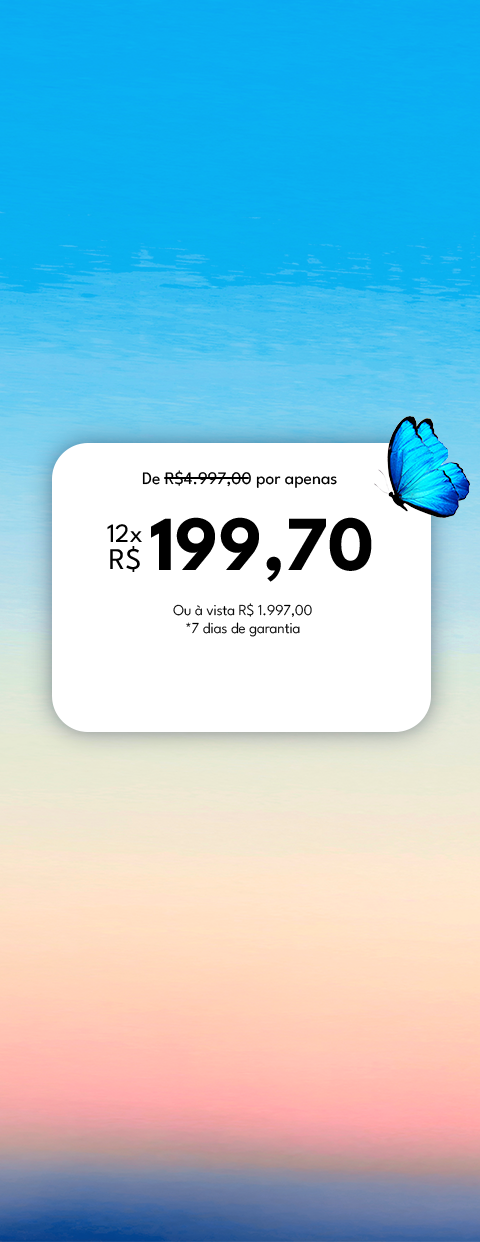
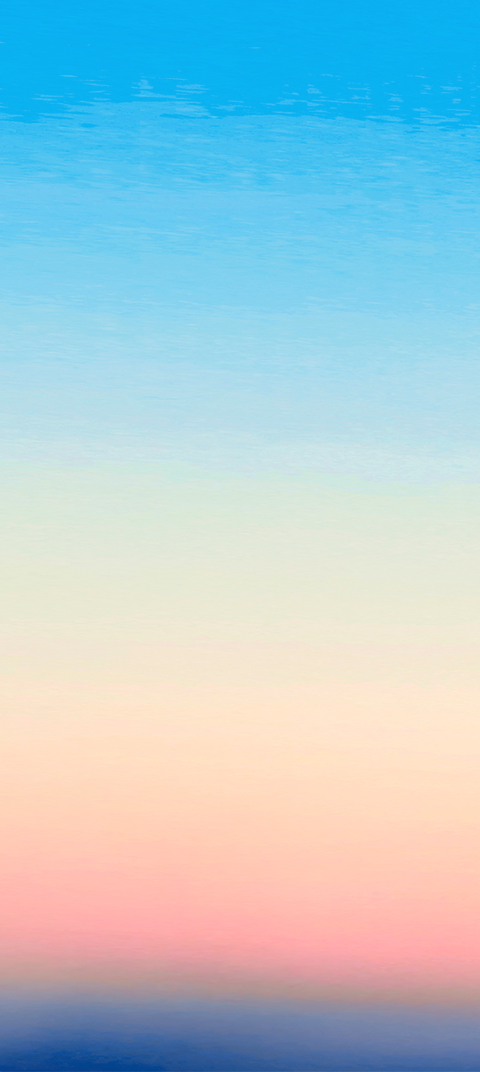
box-bonus removido

diff --git a/src/components/invista/index.js b/src/components/invista/index.js
@@ -6,6 +6,8 @@ import mais from '../../assets/file/mais.png'
 import botao from '../../assets/cta/botao-reservar.png'
 import garantia from '../../assets/cta/garantia.png'
 import valor from '../../assets/file/tabelaValor.png'
+import valorMobile from '../../assets/file/valorTabela.png'
+
 // import {ModalContext} from '../../context/index';
 
 export default function Page(props) {
@@ -58,30 +60,23 @@ export default function Page(props) {
                                     <div className="flex Tratamento py-2">
                                         <img src={mais} className="self-center pr-3 h-7" width="30" />
                                         Suporte pelo WhatsApp
-                                    </div> 
-                                    <div className="flex Tratamento py-2 pb-20">
+                                    </div>
+                                    <div className="flex Tratamento py-2 mb-10">
                                         <img src={mais} className="self-center pr-3 h-7" width="30" />
                                         Encontros mensais online<br /> com a Dra. Amanda Almeida.
                                     </div>
                                 </div>
                             </div>
-                            <div className="flex relative box-valor mb-10 ">
+                            
+                            <div className="flex relative box-valor">
+                            <img src={valorMobile} className="flex absolute pt-4" />
                                 <div className="flex absolute botao-invista justify-center">
                                     <img src={botao} className="flex invistaButton" />
                                     <button type="submit" className="absolute buttonInvista" onClick={() => { window.location.href = "https://sun.eduzz.com/1436910?cupom=sejalivre"; }}>Quero ser livre</button>
                                 </div>
                             </div>
 
-                                <div className="flex flex-col box-bonus text-center items-center place-self-center">
-                                    <div className="flex titulo-bonus pt-5">
-                                        Bônus
-                                    </div>
-                                    <div className="flex descricao-bonus pt-2">
-                                        Avaliação individual via vídeo<br /> chamada, com Dra. Amanda<br /> para as 5 primeiras inscritas.
-                                    </div>
-                            </div>
-
-                            <div className="relative flex justify-center pt-14 text-center pb-10">
+                            <div className="relative flex justify-center text-center pb-14 pt-20">
                                 <img src={garantia} className="flex button-garantia" />
                                 <div className="absolute titulo-garantia">Garantia de 7 Dias</div>
                                 <div className="absolute descricao-garantia"><br />
@@ -102,8 +97,8 @@ export default function Page(props) {
                             invista na sua liberdade!
                         </div>
                         <div className="flex flex-wrap justify-center">
-                            <div className="flex flex-col w-6/10 pt-12 pl-10">
-                                <div className="flex w-full justify-center invista py-2">
+                            <div className="flex flex-col pt-12 pl-20">
+                                <div className="flex w-full justify-start invista py-2">
                                     Tratamento de Vaginismo
                                 </div>
                                 <div className="flex flex-row w-full justify-center Tratamento py-2">
@@ -126,13 +121,25 @@ export default function Page(props) {
                                     <div className='flex flex-row justify-end'>
                                         <img src={mais} className="self-center pr-3 h-8" width="auto" />
                                     </div>
-                                    <div className='flex flex-row w-full justify-start'>
+                                    <div className='flex flex-row w-full justify-start pb-4'>
                                         Encontros mensais online<br /> com a Dra. Amanda Almeida.
                                     </div>
                                 </div>
+                                <div className="flex flex-wrap justify-center">
+                                    <div className="text-center">
+                                        <div className="relative flex justify-center pt-20">
+                                            <img src={garantia} className="flex button-garantia" />
+                                            <div className="absolute titulo-garantia">Garantia de 7 Dias</div>
+                                            <div className="absolute descricao-garantia"><br />
+                                                Sua compra está segura.<br />
+                                                Ou você fica satisfeita, ou recebe <br />
+                                                100% do seu investimento de volta.
+                                            </div>
+                                        </div>
+                                    </div>
+                                </div>
                             </div>
-
-                            <div className="flex relative box-valor ml-28 mb-20">
+                            <div className="flex relative box-valor ml-28 pt-6">
                                 <img src={valor} className="flex absolute pt-4 pr-2" />
                                 <div className="flex absolute botao-invista  justify-center">
                                     <img src={botao} className="flex invistaButton" />
@@ -141,29 +148,6 @@ export default function Page(props) {
                             </div>
                         </div>
 
-                        <div className="flex flex-wrap justify-center">
-                            <div className="text-center pr-20">
-                                <div className="relative flex justify-center pt-14">
-                                    <img src={garantia} className="flex button-garantia" />
-                                    <div className="absolute titulo-garantia">Garantia de 7 Dias</div>
-                                    <div className="absolute descricao-garantia"><br />
-                                        Sua compra está segura.<br />
-                                        Ou você fica satisfeita, ou recebe <br />
-                                        100% do seu investimento de volta.
-                                    </div>
-                                </div>
-                            </div>
-                            <div className="text-center pr-3">
-                                <div className="box-bonus">
-                                    <div className="titulo-bonus pt-5">
-                                        Bônus
-                                    </div>
-                                    <div className="descricao-bonus pt-2">
-                                        Avaliação individual via vídeo<br /> chamada, com Dra. Amanda para as 5<br /> primeiras inscritas.
-                                    </div>
-                                </div>
-                            </div>
-                        </div>
                     </Fade>
                 </div>
             </ScrollableAnchor>

diff --git a/src/styles/index.css b/src/styles/index.css
@@ -345,9 +345,8 @@ a {
   height: 280px;
 }
 .botao-invista {
-  align-self: flex-end;
   padding-left: 80px;
-  margin-top: 20px;
+  margin-top: 360px;
 }
 
 .invistaButton {
@@ -376,28 +375,6 @@ a {
   font-size: 1rem;
   color: white;
   line-height: 1.2rem;
-}
-.box-bonus {
-  border-radius: 1rem;
-  border-width: 2px;
-  border-color: rgb(244 114 182);
-  border-style: solid;
-  width: 360px;
-  height: 155px;
-  box-shadow: 0 20px 25px -5px rgb(0 0 0 / 0.1), 0 8px 10px -6px rgb(0 0 0 / 0.1);
-  margin-top: -2px;
-}
-.titulo-bonus {    
-  color: #ad5677;
-  font-family: agright--regular;
-  text-transform: uppercase;
-  font-size: 2.25rem;
-}
-.descricao-bonus{
-  color: #ad5677;  
-  font-size: 1rem;
-  line-height: 1.2rem;
-  font-family: LeagueSpartan-SemiBold;
 }
 .titulo-dep {
   font-family: agright--regular;
@@ -662,9 +639,6 @@ a {
   .descricao-garantia {
     margin-top: 20px;
   }
-  .box-bonus {
-    margin-top: 20px;
-  }
   
   @media screen and (min-device-width: 1399px) and (max-device-width: 620px) {
     .tituloTopo {
@@ -694,9 +668,6 @@ a {
     .descricao-garantia {
       margin-top: 20px;
     }
-    .box-bonus {
-      margin-top: 20px;
-    }
   }
   /* .duvidas {
     margin-left: -360px;
@@ -710,13 +681,15 @@ a {
     width: 350px;
   }
   .box-valor {
+    width: 380px;
     height: 280px;
     margin-top: -80px;
+    margin-left: 10px;
   }
   .botao-invista {
     align-self: flex-end;
-    margin-left: -15px;
-    margin-bottom: 30px;
+    margin-left: -25px;
+    margin-bottom: 5px;
   }
 }
 
@@ -725,13 +698,15 @@ a {
     width: 350px;
   }
   .box-valor {
+    width: 380px;
     height: 280px;
     margin-top: -90px;
+    margin-left: 0px;
   }
   .botao-invista {
     align-self: flex-end;
     margin-left: -30px;
-    margin-bottom: 30px;
+    margin-bottom: 0px;
   }
 }
 @media screen and (min-device-width: 280px) and (max-device-width: 380px) {
@@ -739,13 +714,15 @@ a {
     width: 300px;
   }
   .box-valor {
+    width: 360px;
     height: 280px;
     margin-top: -80px;
+    margin-left: -8px;
   }
   .botao-invista {
     align-self: flex-end;
-    margin-left: -40px;
-    margin-bottom: 30px;
+    margin-left: -35px;
+    margin-bottom: 10px;
   }
 
 }
@@ -843,13 +820,7 @@ a {
   .Tratamento {
     font-size: 1rem;
   }
-  .box-bonus {
-    width: 320px;
-    height: 155px;
-  }
-  .descricao-bonus {
-    font-size: 1.2rem;  
-  }
+
   .button-garantia{
     width: 320px;
     height: 200px;

diff --git a/public/index.html b/public/index.html
@@ -43,15 +43,14 @@
   <!-- End Google Tag Manager -->
 
   <!-- Global site tag (gtag.js) - Google Analytics -->
-  <script async src="https://www.googletagmanager.com/gtag/js?id=G-0E47J171LN"></script>
-  <script>
-    window.dataLayer = window.dataLayer || [];
-    function gtag() {
-      dataLayer.push(arguments);
-    }
-    gtag("js", new Date());
-    gtag("config", "G-0E47J171LN");
-  </script>
+<script async src="https://www.googletagmanager.com/gtag/js?id=G-K2H3SD3BL0"></script>
+<script>
+  window.dataLayer = window.dataLayer || [];
+  function gtag(){dataLayer.push(arguments);}
+  gtag('js', new Date());
+
+  gtag('config', 'G-K2H3SD3BL0');
+</script>
   <!-- Meta Pixel Code -->
   <script>
     !function (f, b, e, v, n, t, s) {
